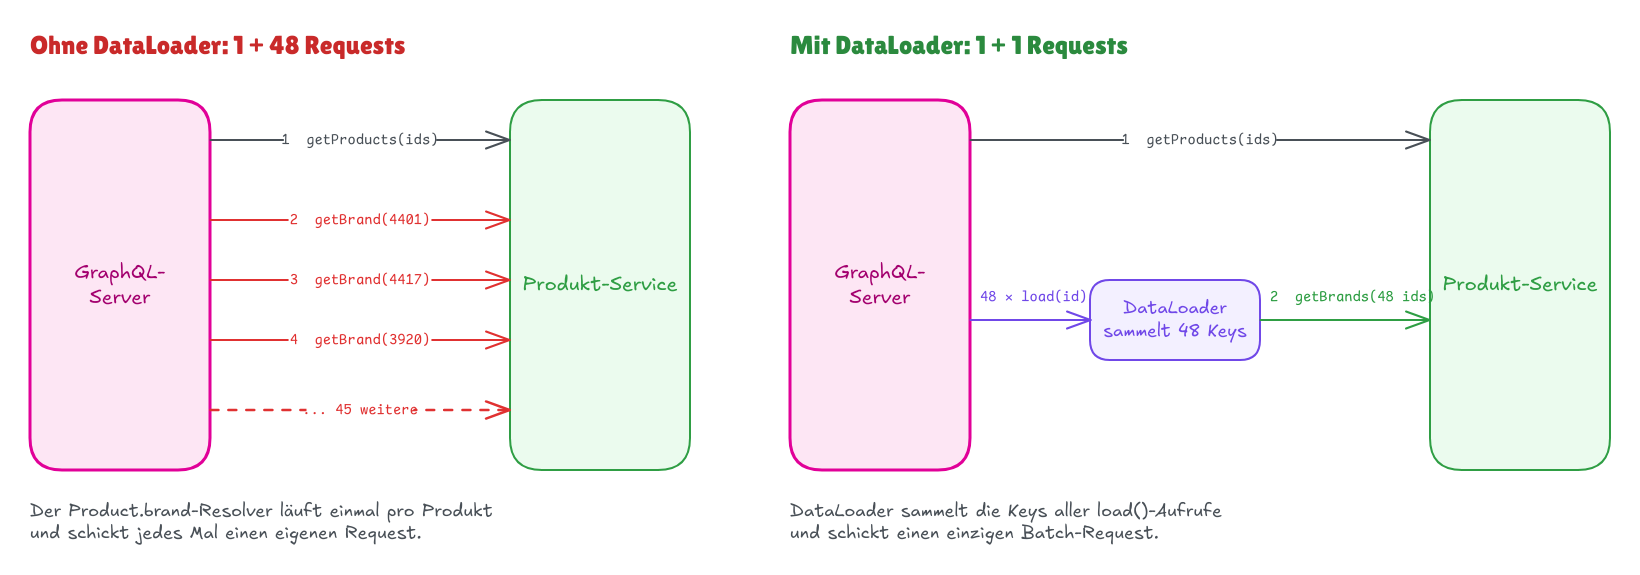
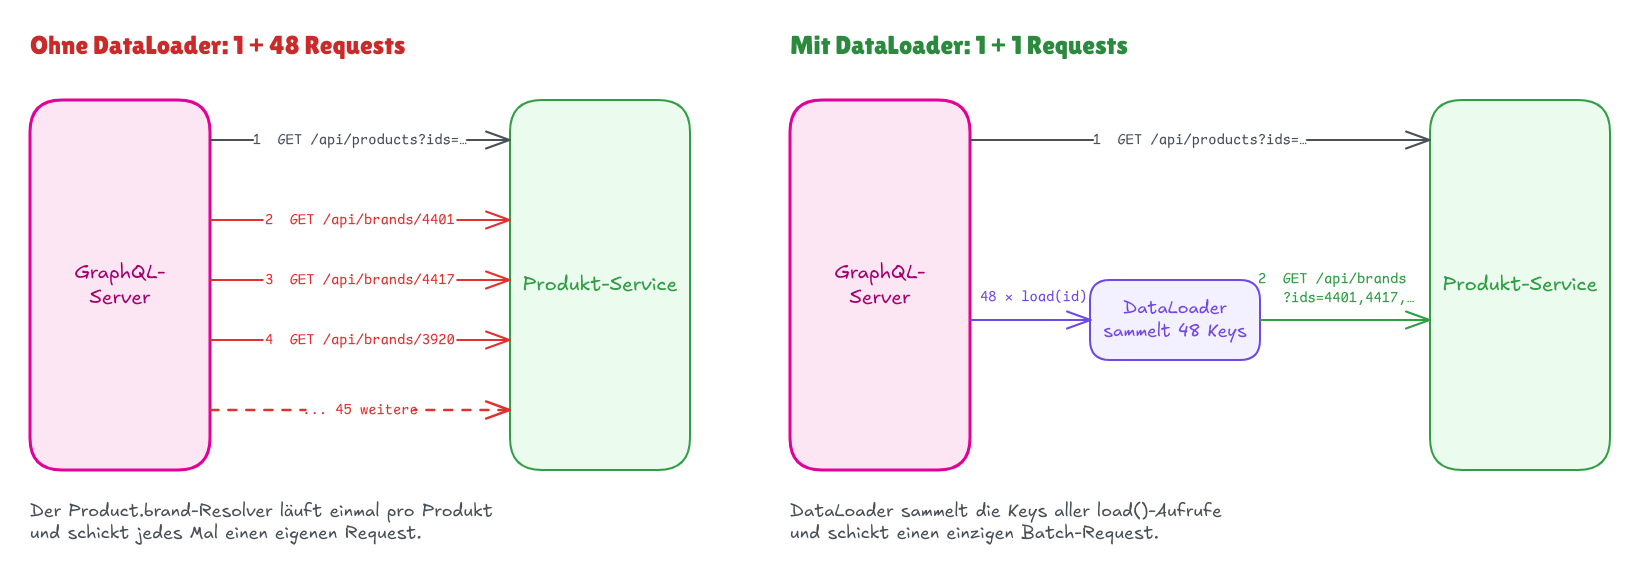
Call the services with fetch in the resolvers and show their contracts
The resolvers fetch the domain services directly instead of going
through context helpers, and typed service responses show what each
resolver receives as parent. The schema gains an optional after
argument on products. The DataLoader example and both graphics use the
service endpoints. Also shortens the round-trip note and drops the
REST term table.

diff --git a/topics/graphql-vs-rest/README.md b/topics/graphql-vs-rest/README.md
@@ -125,7 +125,7 @@ Drei Probleme, und die ersten beiden treten gleichzeitig auf:
 - **Over-Fetching.** Eine Response enthält Daten, die die Seite nicht braucht. Jedes Produkt kommt mit Beschreibung und 60 Spezifikationen, obwohl die Kachel fünf Felder zeigt.
 - **Wasserfall.** Jede Runde wartet auf die vorherige.
 
-Jede Runde kostet mindestens einen Round Trip, im Mobilnetz bis zu mehreren hundert Millisekunden ([Quelle](https://hpbn.co/mobile-networks/)). Die Zahlen in den Grafiken sind Beispielwerte.
+Jede Runde kostet mindestens einen Round Trip. Die Zweite Runde kann erst gestartet werden, wenn die 1. Runde fertig ist.
 
 ## Die Lösung: GraphQL
 
@@ -169,15 +169,7 @@ type Project {
 }
 ```
 
-**Der Client bestimmt, welche Felder zurückkommen.** Die Begriffe, übersetzt in REST:
-
-| GraphQL                 | In REST hiesse das                  |
-| ----------------------- | ----------------------------------- |
-| **Schema**              | Ein OpenAPI-Dokument                |
-| **Typ**, etwa `Project` | Die Form eines JSON-Bodys           |
-| **Feld auf `Query`**    | Ein Endpoint, `GET /projects/:name` |
-| **Query**               | Ein `GET`-Request                   |
-| **Resolver**            | Ein Route Handler                   |
+**Der Client bestimmt, welche Felder zurückkommen.**
 
 Schreibzugriffe heissen **Mutation** (wie `POST`, `PUT`, `DELETE`). Alles geht **an dieselbe URL**, meist `POST /graphql`.
 
@@ -196,7 +188,7 @@ type ProductType {
   name: String!
   breadcrumb: [Category!]!
   navigation: [NavigationEntry!]!
-  products(first: Int!): ProductList!
+  products(first: Int!, after: String): ProductList!
 }
 
 type ProductList {
@@ -280,34 +272,73 @@ Der GraphQL-Server trägt die Daten aus den drei Services mit **Resolvern** zusa
 
 ![Die Query der Seite: Vier Felder haben einen eigenen Resolver, der Rest kommt mit dem parent-Objekt](./assets/resolvers.png)
 
-Ein Resolver bekommt drei Dinge: `parent` (den Wert des übergeordneten Felds), `args` (die Argumente) und `context` (die API-Clients):
+Unsere Resolver rufen die REST APIs der Services direkt mit `fetch` auf. Die Services antworten mit denselben JSON-Formen wie in den REST-Runden oben, hier gekürzt als Typen:
+
+```ts
+// GET http://navigation/api/product-types/:id
+type ProductTypeResponse = {
+  id: number;
+  name: string;
+  breadcrumb: { name: string; href: string }[];
+  navigation: { name: string; url: string }[];
+};
+
+// GET http://product-lists/api/product-lists?productTypeId=…&limit=…
+type ProductListResponse = {
+  totalCount: number;
+  items: { productId: number; href: string }[];
+};
+
+// GET http://products/api/products?ids=…
+type ProductResponse = {
+  id: number;
+  name: string;
+  brand: { id: number; name: string };
+  price: { amount: number; currency: string };
+  images: string[];
+  rating: { average: number; count: number } | null;
+};
+```
+
+Ein Resolver bekommt `parent` (den Rückgabewert des übergeordneten Resolvers) und `args` (die Argumente des Felds). Was ein Resolver zurückgibt, ist das `parent` der Felder darunter:
 
 ```ts
 const resolvers = {
   Query: {
-    // 👇 navigation service: one call returns name, breadcrumb and navigation as well
-    productType: (_parent, args, context) => context.navigation.getProductType(args.id)
+    // 👇 one call returns name, breadcrumb and navigation as well
+    productType: async (_parent, args: { id: string }): Promise<ProductTypeResponse> => {
+      const res = await fetch(`http://navigation/api/product-types/${args.id}`);
+      return res.json();
+    }
   },
   ProductType: {
-    products: (productType, args, context) =>
-      context.productLists.getProductList({
-        productTypeId: productType.id,
-        limit: args.first
-      })
+    // 👇 parent is the ProductTypeResponse from above
+    products: async (
+      productType: ProductTypeResponse,
+      args: { first: number }
+    ): Promise<ProductListResponse> => {
+      const res = await fetch(
+        `http://product-lists/api/product-lists?productTypeId=${productType.id}&limit=${args.first}`
+      );
+      return res.json();
+    }
   },
   ProductList: {
-    // 👇 the list service returns ids only, so fetch all 48 products in one call
-    items: (list, _args, context) =>
-      context.products.getProducts(list.items.map((item) => item.productId))
+    // 👇 the list holds ids only, so fetch all 48 products in one call
+    items: async (list: ProductListResponse): Promise<ProductResponse[]> => {
+      const ids = list.items.map((item) => item.productId).join(",");
+      const res = await fetch(`http://products/api/products?ids=${ids}`);
+      return res.json();
+    }
   },
   Product: {
-    // a resolver that calls nothing: the schema offers one image, the service returns a list
-    imageUrl: (product) => product.images[0]
+    // a resolver without a call: the schema offers one image, the service returns a list
+    imageUrl: (product: ProductResponse) => product.images[0]
   }
 };
 ```
 
-So ist `getProductType` **ein Aufruf, nicht einer pro Feld**.
+So lädt der Produkttyp mit **einem Aufruf, nicht einem pro Feld**.
 
 Der Server führt die Resolver Ebene für Ebene aus: `products` wartet auf `productType`, und `items` wartet auf `products`. **Der Wasserfall ist noch da, aber er läuft im Rechenzentrum**, wo ein Aufruf wenige Millisekunden dauert. Der Browser wartet nur noch auf einen Round Trip:
 
@@ -328,15 +359,16 @@ Unser `items`-Resolver holt alle 48 Produkte in einem Aufruf, weil er die ganze 
 
 ```ts
 // one loader per request, so cached brands never leak between requests
-export function createBrandLoader(products: ProductsApi) {
+export function createBrandLoader() {
   return new DataLoader<number, Brand>(async (ids) => {
     // 👇 one call for all ids
-    const brands = new Map((await products.getBrands(ids)).map((brand) => [brand.id, brand]));
+    const res = await fetch(`http://products/api/brands?ids=${ids.join(",")}`);
+    const brands = new Map((await res.json()).map((brand) => [brand.id, brand]));
     return ids.map((id) => brands.get(id) ?? new Error(`No brand ${id}`));
   });
 }
 
-// resolver for Product.brand, with the loader in the context
+// resolver for Product.brand: the loader is created per request and passed in the context
 const brand = (product: Product, _args: unknown, context: Context) =>
   context.brandLoader.load(product.brandId);
 ```
